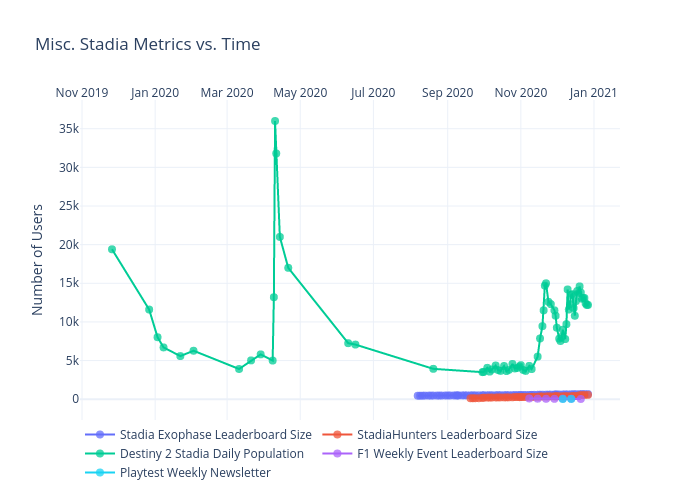
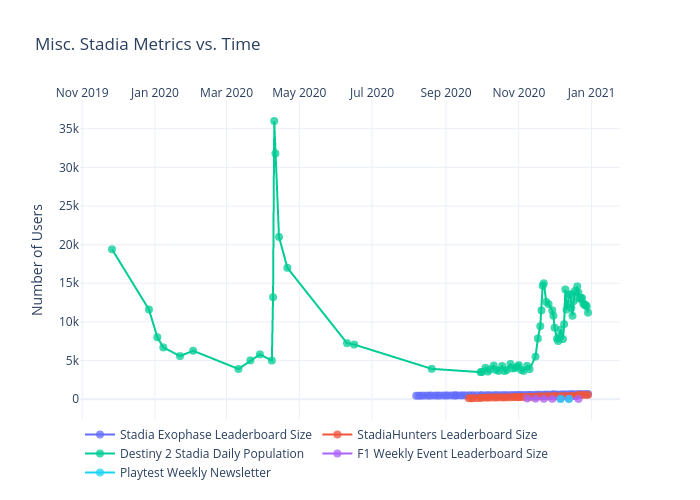
Add files via upload

diff --git a/misc/figure.js b/misc/figure.js
@@ -116,6 +116,7 @@ var figure = {
                 "2020-12-25",
                 "2020-12-26",
                 "2020-12-27",
+                "2020-12-28",
                 "2020-12-29",
                 "2020-12-31",
                 "2021-01-03"
@@ -225,7 +226,9 @@ var figure = {
                 "666",
                 "",
                 "",
-                "668"
+                "668",
+                "",
+                "671"
             ],
             "marker": {
                 "size": 8,
@@ -351,6 +354,7 @@ var figure = {
                 "2020-12-25",
                 "2020-12-26",
                 "2020-12-27",
+                "2020-12-28",
                 "2020-12-29",
                 "2020-12-31",
                 "2021-01-03"
@@ -460,7 +464,9 @@ var figure = {
                 "539",
                 "",
                 "",
-                "558"
+                "558",
+                "",
+                "561"
             ],
             "marker": {
                 "size": 8,
@@ -586,6 +592,7 @@ var figure = {
                 "2020-12-25",
                 "2020-12-26",
                 "2020-12-27",
+                "2020-12-28",
                 "2020-12-29",
                 "2020-12-31",
                 "2021-01-03"
@@ -695,7 +702,9 @@ var figure = {
                 "13100",
                 "12400",
                 "12200",
-                "12200"
+                "12200",
+                "12000",
+                "11200"
             ],
             "marker": {
                 "size": 8,
@@ -821,6 +830,7 @@ var figure = {
                 "2020-12-25",
                 "2020-12-26",
                 "2020-12-27",
+                "2020-12-28",
                 "2020-12-29",
                 "2020-12-31",
                 "2021-01-03"
@@ -1050,6 +1060,7 @@ var figure = {
                 "2020-12-25",
                 "2020-12-26",
                 "2020-12-27",
+                "2020-12-28",
                 "2020-12-29",
                 "2020-12-31",
                 "2021-01-03"
@@ -1163,8 +1174,8 @@ var figure = {
             "side": "top",
             "type": "date",
             "range": [
-                "2019-11-01 02:53:56.359",
-                "2021-01-20 21:06:03.641"
+                "2019-11-01 02:36:12.8334",
+                "2021-01-22 21:23:47.1666"
             ],
             "title": {
                 "text": ""
@@ -1174,8 +1185,8 @@ var figure = {
         "yaxis": {
             "type": "linear",
             "range": [
-                -3525.543545878693,
-                39552.543545878696
+                -3153.3450620934354,
+                39180.34506209344
             ],
             "title": {
                 "text": "Number of Users"
